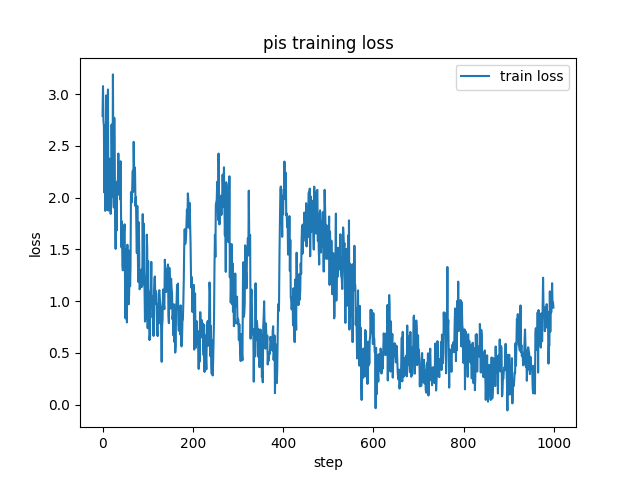
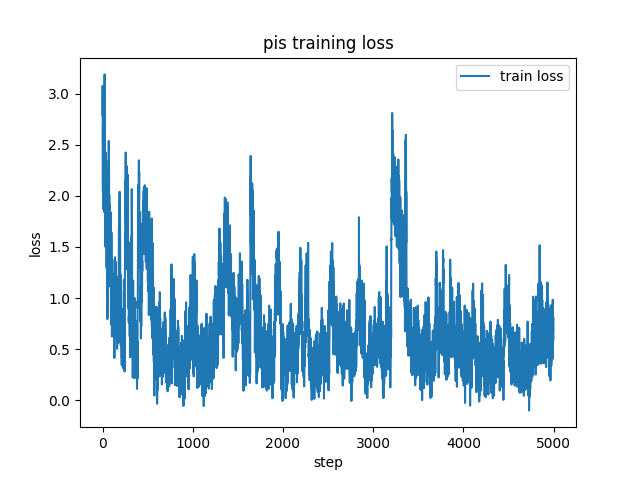
debug

diff --git a/mcjax/process/algo.py b/mcjax/process/algo.py
@@ -111,7 +111,8 @@ class BaseAlgorithm(ABC):
 
             elif condition == 'grad_score':
                 gradp = target.grad_batch(y)  
-                normed = gradp / (jnp.std(gradp, axis=0, keepdims=True) + 1e-5)
+                # normed = gradp / (jnp.std(gradp, axis=0, keepdims=True) + 1e-5)
+                normed = gradp # test without batch normalization
                 return nn1 + nn2 * normed
 
             else:
